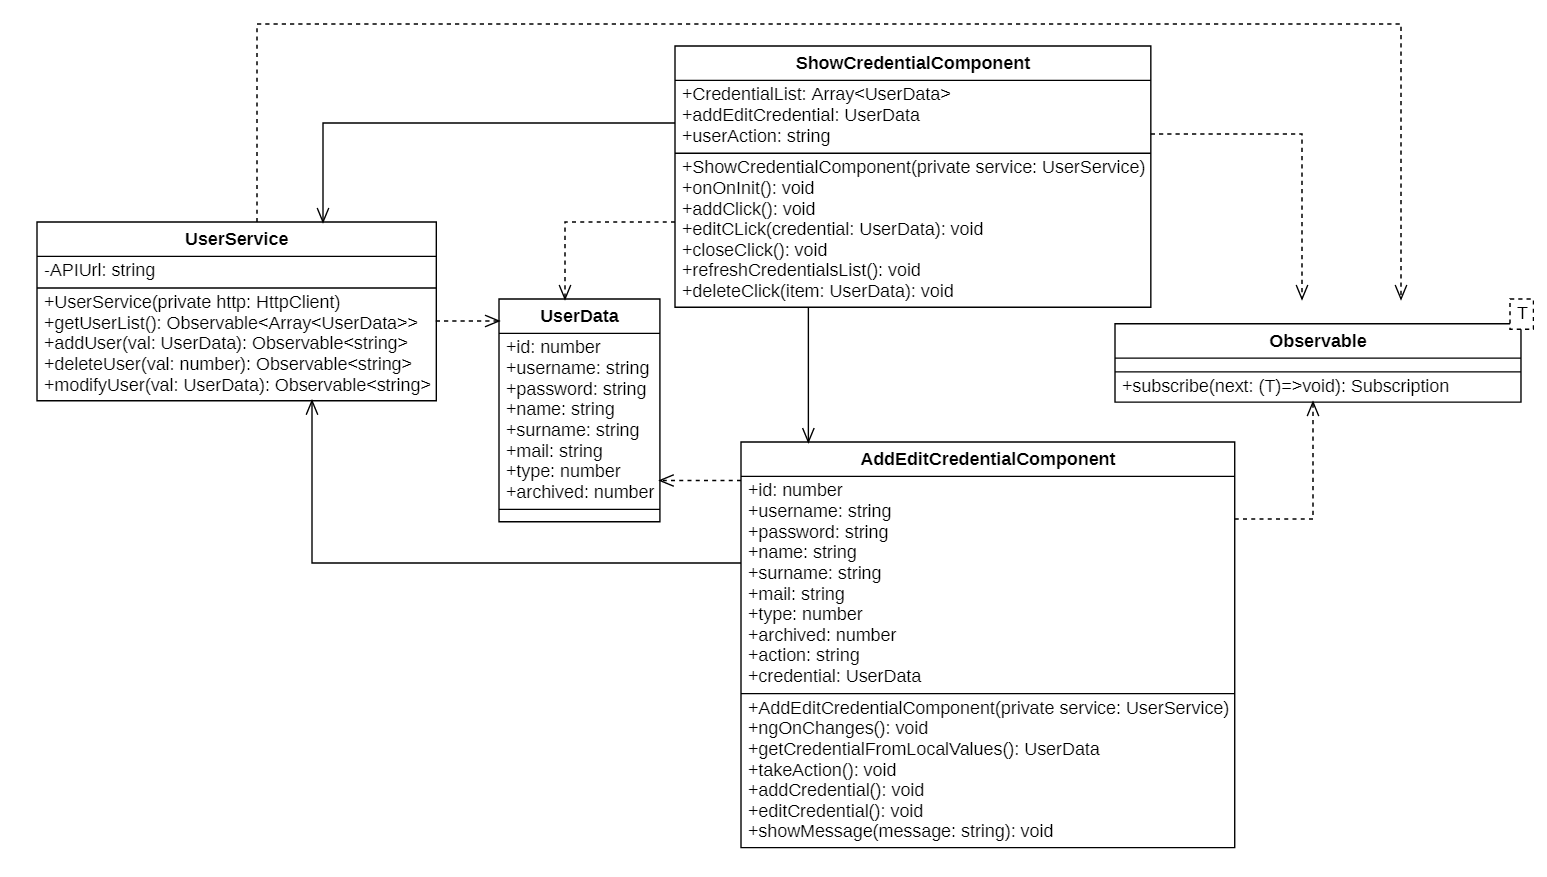
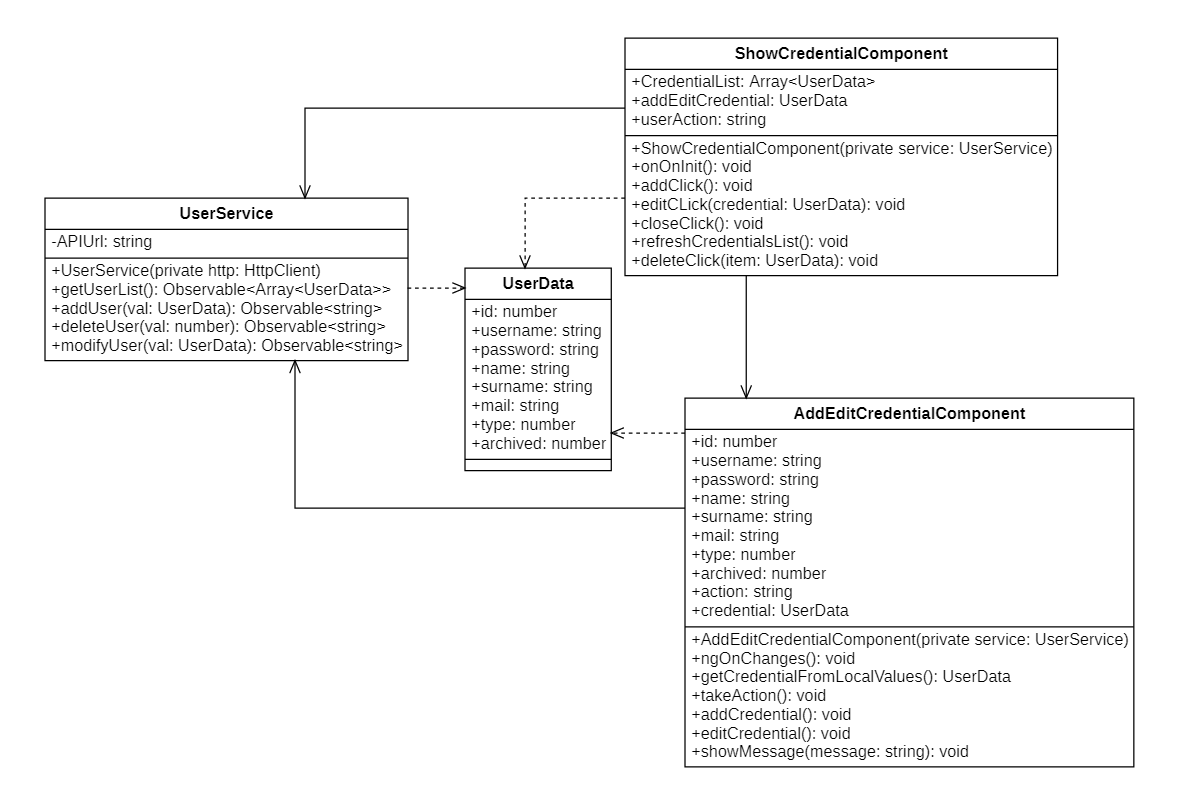
sistemati diagrammi classi

diff --git a/esterni/ManualeManutentore/res/sections/Web-appamministratori.tex b/esterni/ManualeManutentore/res/sections/Web-appamministratori.tex
@@ -170,7 +170,18 @@ Il package Models contiene le classi che vengono usate nel resto dell'applicazio
 Il package Services contiene le classi usate nel resto dell'applicazione per interagire col server e con il local storage oppure che fungono da contenitori di algoritmi comuni.
 
 \subsection{Diagrammi delle classi}
-Nelle descrizioni che seguono si possono notare alcune mancanze, di cui illustriamo ora le motivazioni:
+Nei diagrammi e nelle descrizioni che seguono si possono notare alcune mancanze, di cui illustriamo ora le motivazioni:
+
+\textbf{Diagrammi}
+\begin{itemize}
+	\item non sono rappresentate le classi HttpClient, Observable, UtilsService e le dipendenze verso di esse perchè sono molto comuni ed è quindi poco utile rappresentarle singolarmente. In particolare:
+	\begin{itemize}
+		\item \textbf{HttpClient}: classe fornita da Angular per eseguire chiamate http. Da questa classe dipendono tutti i servizi che si connettono al backend.
+		\item \textbf{Observable}: classe fornita dalla libreria rxjs (Reactive Extensions) per ricezione di dati in modo asincrono. Ne sono dipendenti tutti servizi che si connettono al server e tutti i componenti che utilizzano quei servizi.
+		\item \textbf{UtilsService}: servizio che offre alcuni algoritmi comuni. Ne dipendono quasi tutti i componenti e nessun servizio.
+	\end{itemize}
+\end{itemize}
+\textbf{Descrizioni}
 \begin{itemize}
 	\item non sono presenti i costruttori delle classi perché essi non hanno alcun effetto oltre a quello di creare gli oggetti;
 	\item per le classi del package Models non sono descritti gli attributi poiché essi sono semplicemente la copia delle informazioni contenute nel database;
@@ -248,10 +259,10 @@ Questa classe presenta i seguenti metodi:
 	Metodo che permette di eseguire la chiamata al server e di specificare la funzione di callback che gestirà la risposta.
 \end{itemize}
 
-\subsubsection{Gestione stanze e postazioni}
+\subsubsection{Aggiunta e modifica stanze}
 \begin{figure}[H]
 	\centering
-	\includegraphics[width=18cm]{res/images/webapp-visualAddEditStanzePostazioni-diagrammaClassi.png}
+	\includegraphics[width=18cm]{res/images/webapp-AddEditStanze-diagrammaClassi.png}
 	\caption{Diagramma delle classi per la gestione delle stanze e delle postazioni}
 	\label{fig:DiagrammaClassiStanzePostazioni}
 \end{figure}
@@ -417,6 +428,14 @@ Questa classe presenta i seguenti metodi:
 	\item \textbf{subscribe(next: (T)=>void): Subscription} \newline
 	Metodo che permette di eseguire la chiamata al server e di specificare la funzione di callback che gestirà la risposta.
 \end{itemize}
+
+\subsubsection{Visualizzazione stanze e postazioni}
+\begin{figure}[H]
+	\centering
+	\includegraphics[width=18cm]{res/images/webapp-visualStanzePostazioni-diagrammaClassi.png}
+	\caption{Diagramma delle classi per la visualizzazione delle stanze e delle postazioni}
+	\label{fig:DiagrammaClassiVisualStanzePostazioni}
+\end{figure}
 
 \subsubsection{Gestione credenziali}
 \begin{figure}[H]
